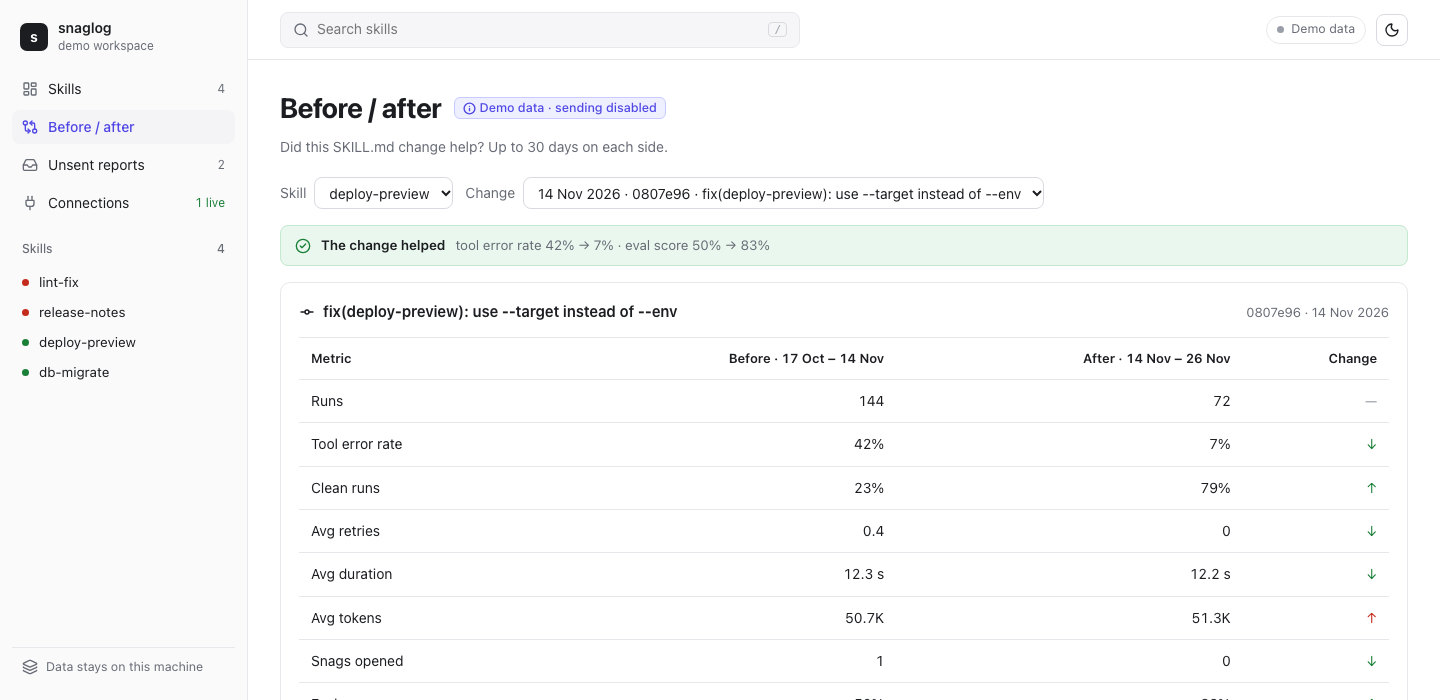
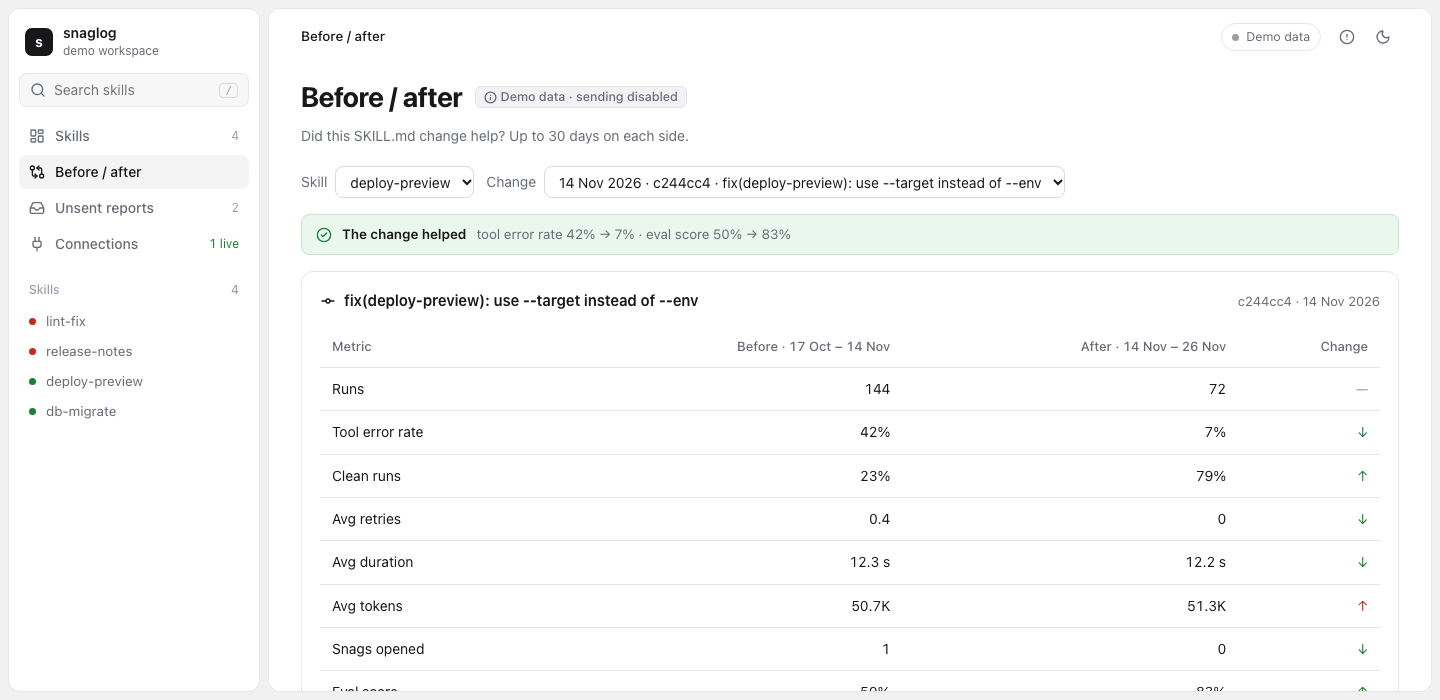
feat(dashboard): separate panels, sidebar search and neutral palette
- Sidebar and main area are separate rounded panels on a tinted canvas.
- Skill search moved into the sidebar; breadcrumbs moved to the top bar.
- "Data stays on this machine" is now a hover note on an icon beside
  the theme button.
- No dotted underlines under headings; no divider lines between sections.
- Purple accent replaced by a neutral palette; links use blue.
- Stat cards show a small icon beside the label instead of an icon box.

diff --git a/cli/dashboard/index.html b/cli/dashboard/index.html
@@ -7,47 +7,47 @@
 <title>snaglog</title>
 <style nonce="__NONCE__">
 :root {
-  --page: #ffffff; --side: #fafafa; --card: #ffffff; --hover: #f4f4f6; --sunken: #f6f6f8;
-  --line: #e8e8ec; --line-strong: #d9d9df;
-  --text: #1c1d21; --muted: #676b75; --faint: #9a9ea8;
-  --accent: #4f46e5; --accent-soft: #eef0ff; --accent-line: #c7cbff;
+  --canvas: #f1f1f2; --page: #ffffff; --side: #ffffff; --card: #ffffff; --hover: #f4f4f5; --sunken: #f7f7f8;
+  --line: #e7e7ea; --line-strong: #d9d9de;
+  --text: #18181b; --muted: #676b75; --faint: #9a9ea8;
+  --accent: #18181b; --accent-fg: #ffffff; --link: #0969da;
   --ok: #1a7f37; --ok-bg: #e9f7ee; --ok-line: #c3e8cf;
   --bad: #c42b1c; --bad-bg: #fdeeed; --bad-line: #f6cdca;
   --warn: #9a6700; --warn-bg: #fff6e3; --warn-line: #f2deb0;
   --neutral-bg: #f2f2f4; --neutral-line: #e2e2e7;
-  --chart-run: #4f46e5; --chart-bad: #e5484d; --chart-ok: #30a46c; --chart-track: #ececf1;
+  --chart-run: #3f3f46; --chart-bad: #e5484d; --chart-ok: #30a46c; --chart-track: #ececef;
   color-scheme: light;
 }
 :root[data-theme="dark"] {
-  --page: #101113; --side: #0c0d0f; --card: #16171a; --hover: #1d1f23; --sunken: #131417;
-  --line: #26282d; --line-strong: #33363c;
+  --canvas: #08090a; --page: #111214; --side: #111214; --card: #16171a; --hover: #1c1d21; --sunken: #18191c;
+  --line: #232428; --line-strong: #303237;
   --text: #ececee; --muted: #a0a3ab; --faint: #6e727b;
-  --accent: #8b8cff; --accent-soft: #1e1f3a; --accent-line: #3b3d75;
+  --accent: #f4f4f5; --accent-fg: #111214; --link: #6cb6ff;
   --ok: #4cc38a; --ok-bg: #12261b; --ok-line: #1f4a33;
   --bad: #ff7b72; --bad-bg: #2d1515; --bad-line: #5a2421;
   --warn: #e3b341; --warn-bg: #2a2110; --warn-line: #574313;
-  --neutral-bg: #1d1f23; --neutral-line: #2c2e34;
-  --chart-run: #8b8cff; --chart-bad: #ff6369; --chart-ok: #4cc38a; --chart-track: #24262b;
+  --neutral-bg: #1c1d21; --neutral-line: #2c2e34;
+  --chart-run: #c9cbd1; --chart-bad: #ff6369; --chart-ok: #4cc38a; --chart-track: #24262b;
   color-scheme: dark;
 }
 @media (prefers-color-scheme: dark) {
   :root:not([data-theme="light"]) {
-    --page: #101113; --side: #0c0d0f; --card: #16171a; --hover: #1d1f23; --sunken: #131417;
-    --line: #26282d; --line-strong: #33363c;
+    --canvas: #08090a; --page: #111214; --side: #111214; --card: #16171a; --hover: #1c1d21; --sunken: #18191c;
+    --line: #232428; --line-strong: #303237;
     --text: #ececee; --muted: #a0a3ab; --faint: #6e727b;
-    --accent: #8b8cff; --accent-soft: #1e1f3a; --accent-line: #3b3d75;
+    --accent: #f4f4f5; --accent-fg: #111214; --link: #6cb6ff;
     --ok: #4cc38a; --ok-bg: #12261b; --ok-line: #1f4a33;
     --bad: #ff7b72; --bad-bg: #2d1515; --bad-line: #5a2421;
     --warn: #e3b341; --warn-bg: #2a2110; --warn-line: #574313;
-    --neutral-bg: #1d1f23; --neutral-line: #2c2e34;
-    --chart-run: #8b8cff; --chart-bad: #ff6369; --chart-ok: #4cc38a; --chart-track: #24262b;
+    --neutral-bg: #1c1d21; --neutral-line: #2c2e34;
+    --chart-run: #c9cbd1; --chart-bad: #ff6369; --chart-ok: #4cc38a; --chart-track: #24262b;
     color-scheme: dark;
   }
 }
 * { box-sizing: border-box; }
 html, body { height: 100%; }
-body { margin: 0; background: var(--page); color: var(--text); font: 14px/1.45 -apple-system, BlinkMacSystemFont, "Segoe UI", Inter, system-ui, sans-serif; -webkit-font-smoothing: antialiased; }
-a { color: var(--accent); text-decoration: none; }
+body { margin: 0; background: var(--canvas); color: var(--text); font: 14px/1.45 -apple-system, BlinkMacSystemFont, "Segoe UI", Inter, system-ui, sans-serif; -webkit-font-smoothing: antialiased; }
+a { color: var(--link); text-decoration: none; }
 a:hover { text-decoration: underline; }
 code, .mono { font-family: ui-monospace, "SF Mono", SFMono-Regular, Menlo, monospace; }
 code { font-size: 12px; background: var(--sunken); border: 1px solid var(--line); padding: 1px 6px; border-radius: 6px; }
@@ -56,55 +56,63 @@ code { font-size: 12px; background: var(--sunken); border: 1px solid var(--line)
 button, select, input, textarea { font: inherit; color: var(--text); }
 .btn { display: inline-flex; align-items: center; gap: 6px; height: 32px; padding: 0 12px; border-radius: 8px; border: 1px solid var(--line-strong); background: var(--card); cursor: pointer; font-weight: 500; }
 .btn:hover { background: var(--hover); }
-.btn.primary { background: var(--accent); border-color: var(--accent); color: #fff; }
-.btn.primary:hover { filter: brightness(1.05); }
+.btn.primary { background: var(--accent); border-color: var(--accent); color: var(--accent-fg); }
+.btn.primary:hover { opacity: .88; background: var(--accent); }
 .btn.danger { color: var(--bad); }
 .btn:disabled { opacity: .45; cursor: not-allowed; }
-.icon-btn { width: 32px; padding: 0; justify-content: center; }
+.icon-btn { width: 32px; padding: 0; justify-content: center; border-color: transparent; background: transparent; color: var(--muted); }
+.icon-btn:hover { color: var(--text); }
 select, input[type="text"], input:not([type]), textarea { background: var(--card); border: 1px solid var(--line-strong); border-radius: 8px; padding: 6px 10px; }
 select { height: 32px; }
 
-/* shell */
-.app { display: grid; grid-template-columns: 248px 1fr; min-height: 100%; }
-.side { position: sticky; top: 0; height: 100vh; display: flex; flex-direction: column; background: var(--side); border-right: 1px solid var(--line); padding: 14px 12px; gap: 4px; overflow-y: auto; }
-.workspace { display: flex; align-items: center; gap: 10px; padding: 6px 8px 14px; }
+/* shell: two separate panels on a tinted canvas */
+.app { display: grid; grid-template-columns: 252px minmax(0, 1fr); gap: 8px; padding: 8px; height: 100vh; }
+.side, .main { background: var(--page); border: 1px solid var(--line); border-radius: 12px; }
+.side { display: flex; flex-direction: column; padding: 12px 10px; gap: 2px; overflow-y: auto; }
+.workspace { display: flex; align-items: center; gap: 10px; padding: 4px 6px 12px; }
 .workspace .logo { width: 28px; height: 28px; border-radius: 7px; background: var(--text); color: var(--page); display: grid; place-items: center; font-weight: 700; font-size: 14px; }
 .workspace .name { font-weight: 600; line-height: 1.2; }
 .workspace .sub { color: var(--muted); font-size: 12px; }
-.nav-item { display: flex; align-items: center; gap: 10px; height: 34px; padding: 0 10px; border-radius: 8px; color: var(--text); text-decoration: none; }
-.nav-item:hover { background: var(--hover); text-decoration: none; }
-.nav-item.active { background: var(--hover); color: var(--accent); font-weight: 500; }
-.nav-item .ic { color: var(--muted); }
-.nav-item.active .ic { color: var(--accent); }
-.nav-item .count { margin-left: auto; font-size: 12px; color: var(--muted); font-variant-numeric: tabular-nums; }
+.search { display: flex; align-items: center; gap: 8px; height: 34px; margin: 0 0 10px; padding: 0 10px; background: var(--sunken); border: 1px solid var(--line); border-radius: 8px; color: var(--muted); }
+.search:focus-within { border-color: var(--line-strong); }
+.search input { flex: 1; min-width: 0; border: 0; background: transparent; padding: 0; outline: none; color: var(--text); }
+.search input::-webkit-search-cancel-button { display: none; }
+.search kbd { font: 11px ui-monospace, monospace; color: var(--faint); border: 1px solid var(--line-strong); border-radius: 4px; padding: 0 5px; }
+.nav-item { display: flex; align-items: center; gap: 10px; height: 34px; padding: 0 10px; border-radius: 8px; color: var(--muted); text-decoration: none; font-weight: 500; }
+.nav-item:hover { background: var(--hover); color: var(--text); text-decoration: none; }
+.nav-item.active { background: var(--hover); color: var(--text); }
+.nav-item .count { margin-left: auto; font-size: 12px; color: var(--faint); font-weight: 400; font-variant-numeric: tabular-nums; }
 .nav-item .count.live { color: var(--ok); }
-.side-label { display: flex; justify-content: space-between; color: var(--muted); font-size: 12px; font-weight: 500; padding: 16px 10px 6px; }
-.side-skill { display: flex; align-items: center; gap: 10px; height: 30px; padding: 0 10px; border-radius: 8px; color: var(--text); text-decoration: none; font-size: 13.5px; }
-.side-skill:hover { background: var(--hover); text-decoration: none; }
-.side-skill.active { background: var(--hover); font-weight: 500; }
+.side-label { display: flex; justify-content: space-between; color: var(--faint); font-size: 12px; font-weight: 500; padding: 18px 10px 6px; }
+.side-skill { display: flex; align-items: center; gap: 10px; height: 30px; padding: 0 10px; border-radius: 8px; color: var(--muted); text-decoration: none; font-size: 13.5px; }
+.side-skill:hover { background: var(--hover); color: var(--text); text-decoration: none; }
+.side-skill.active { background: var(--hover); color: var(--text); font-weight: 500; }
 .side-skill span:nth-child(2) { overflow: hidden; text-overflow: ellipsis; white-space: nowrap; }
-.side-foot { margin-top: auto; display: flex; align-items: center; gap: 8px; padding: 10px; border-top: 1px solid var(--line); color: var(--muted); font-size: 12.5px; }
 .dot { width: 7px; height: 7px; border-radius: 50%; background: var(--faint); flex: none; }
 .dot.ok { background: var(--ok); }
 .dot.bad { background: var(--bad); }
 .dot.warn { background: var(--warn); }
-.main { min-width: 0; display: flex; flex-direction: column; }
-.topbar { position: sticky; top: 0; z-index: 2; display: flex; align-items: center; gap: 12px; height: 60px; padding: 0 32px; background: color-mix(in srgb, var(--page) 92%, transparent); backdrop-filter: blur(6px); border-bottom: 1px solid var(--line); }
-.search { display: flex; align-items: center; gap: 8px; height: 36px; width: min(520px, 100%); padding: 0 12px; background: var(--sunken); border: 1px solid var(--line); border-radius: 8px; color: var(--muted); }
-.search input { flex: 1; border: 0; background: transparent; padding: 0; outline: none; color: var(--text); }
-.search kbd { font: 11px ui-monospace, monospace; color: var(--faint); border: 1px solid var(--line-strong); border-radius: 4px; padding: 0 5px; }
-.topbar .right { margin-left: auto; display: flex; align-items: center; gap: 10px; }
-.status-pill { display: inline-flex; align-items: center; gap: 7px; height: 28px; padding: 0 10px; border-radius: 999px; border: 1px solid var(--line); color: var(--muted); font-size: 12.5px; cursor: default; }
-.content { width: 100%; max-width: 1280px; padding: 28px 32px 56px; }
+.main { min-width: 0; display: flex; flex-direction: column; overflow-y: auto; }
+.topbar { position: sticky; top: 0; z-index: 2; display: flex; align-items: center; gap: 12px; min-height: 56px; padding: 0 32px; background: var(--page); }
+.topbar .crumbs { display: flex; align-items: center; gap: 6px; color: var(--muted); font-size: 13.5px; min-width: 0; }
+.topbar .crumbs a { color: var(--muted); }
+.topbar .crumbs a:hover { color: var(--text); text-decoration: none; }
+.topbar .crumbs .here { color: var(--text); font-weight: 500; }
+.topbar .crumbs .ic { color: var(--faint); }
+.topbar .right { margin-left: auto; display: flex; align-items: center; gap: 4px; }
+.status-pill { display: inline-flex; align-items: center; gap: 7px; height: 28px; margin-right: 6px; padding: 0 10px; border-radius: 999px; border: 1px solid var(--line); color: var(--muted); font-size: 12.5px; cursor: default; white-space: nowrap; }
+.tip { position: relative; }
+.tip-box { display: none; position: absolute; right: 0; top: calc(100% + 6px); width: 280px; padding: 12px 14px; background: var(--card); border: 1px solid var(--line); border-radius: 10px; box-shadow: 0 8px 24px rgba(0, 0, 0, .10); font-size: 13px; color: var(--muted); z-index: 5; }
+.tip-box strong { display: block; color: var(--text); font-weight: 600; margin-bottom: 4px; }
+.tip:hover .tip-box, .tip:focus-within .tip-box { display: block; }
+.content { width: 100%; max-width: 1280px; padding: 12px 32px 56px; }
 @media (max-width: 900px) {
-  .app { grid-template-columns: 1fr; }
-  .side { position: static; height: auto; border-right: 0; border-bottom: 1px solid var(--line); }
+  .app { grid-template-columns: 1fr; height: auto; }
+  .main { overflow: visible; }
   .topbar, .content { padding-left: 16px; padding-right: 16px; }
 }
 
 /* page header */
-.crumbs { display: flex; align-items: center; gap: 6px; color: var(--muted); font-size: 13px; margin-bottom: 6px; }
-.crumbs a { color: var(--muted); }
 .page-title { display: flex; align-items: center; gap: 12px; margin: 0 0 20px; }
 .page-title h1 { margin: 0; font-size: 28px; font-weight: 700; letter-spacing: -0.02em; }
 .lead { color: var(--muted); margin: -12px 0 20px; }
@@ -121,32 +129,30 @@ h2 { font-size: 16px; font-weight: 600; margin: 28px 0 12px; }
 .notice.warn { background: var(--warn-bg); border-color: var(--warn-line); }
 .notice.warn .ic { color: var(--warn); }
 
-/* stat cards (Plane-like) */
+/* stat cards */
 .stats { display: grid; grid-template-columns: repeat(auto-fit, minmax(210px, 1fr)); gap: 12px; }
-.stat { display: flex; gap: 14px; align-items: center; padding: 16px 18px; background: var(--card); border: 1px solid var(--line); border-radius: 10px; }
-.stat .icon { width: 36px; height: 36px; border-radius: 9px; background: var(--sunken); border: 1px solid var(--line); display: grid; place-items: center; color: var(--muted); flex: none; }
-.stat .icon .ic { width: 18px; height: 18px; }
-.stat .label { color: var(--muted); font-size: 13px; }
-.stat .label[title] { cursor: help; text-decoration: underline dotted var(--line-strong); text-underline-offset: 3px; }
-.stat .value { font-size: 22px; font-weight: 600; font-variant-numeric: tabular-nums; letter-spacing: -0.01em; line-height: 1.25; }
-.stat .value .unit { font-size: 14px; font-weight: 500; color: var(--muted); margin-left: 2px; }
+.stat { padding: 16px 18px; background: var(--card); border: 1px solid var(--line); border-radius: 12px; }
+.stat .head { display: flex; align-items: center; justify-content: space-between; gap: 8px; color: var(--muted); font-size: 13px; font-weight: 500; }
+.stat .head .ic { color: var(--faint); }
+.stat .value { margin-top: 8px; font-size: 26px; font-weight: 600; font-variant-numeric: tabular-nums; letter-spacing: -0.02em; line-height: 1.2; }
+.stat .value .unit { font-size: 15px; font-weight: 500; color: var(--muted); margin-left: 2px; letter-spacing: 0; }
 .stat .value.bad { color: var(--bad); }
-.stat .note { color: var(--faint); font-size: 12px; }
+.stat .note { margin-top: 4px; color: var(--faint); font-size: 12px; }
 
 /* status tabs (Stripe-like) */
 .tabs-cards { display: grid; grid-template-columns: repeat(auto-fit, minmax(150px, 1fr)); gap: 10px; margin: 20px 0 16px; }
-.tab-card { text-align: left; padding: 10px 14px; border-radius: 8px; border: 1px solid var(--line); background: var(--card); cursor: pointer; }
+.tab-card { text-align: left; padding: 10px 14px; border-radius: 10px; border: 1px solid var(--line); background: var(--card); cursor: pointer; }
 .tab-card:hover { border-color: var(--line-strong); }
 .tab-card .t { color: var(--muted); font-size: 13px; }
 .tab-card .n { font-size: 18px; font-weight: 600; font-variant-numeric: tabular-nums; }
-.tab-card.active { border: 1.5px solid var(--accent); }
-.tab-card.active .t, .tab-card.active .n { color: var(--accent); }
+.tab-card.active { border-color: var(--text); }
+.tab-card.active .t { color: var(--text); }
 
 /* underline tabs (Plane-like) */
-.tabs { display: flex; gap: 4px; border-bottom: 1px solid var(--line); margin: 4px 0 20px; }
+.tabs { display: flex; gap: 4px; margin: 0 0 20px; }
 .tabs button { background: none; border: 0; padding: 10px 12px; margin-bottom: -1px; border-bottom: 2px solid transparent; color: var(--muted); cursor: pointer; font-weight: 500; }
 .tabs button:hover { color: var(--text); }
-.tabs button.active { color: var(--accent); border-bottom-color: var(--accent); }
+.tabs button.active { color: var(--text); border-bottom-color: var(--text); }
 
 /* badges */
 .badge { display: inline-flex; align-items: center; gap: 4px; height: 22px; padding: 0 8px; border-radius: 6px; font-size: 12.5px; font-weight: 500; border: 1px solid var(--neutral-line); background: var(--neutral-bg); color: var(--muted); white-space: nowrap; }
@@ -154,14 +160,13 @@ h2 { font-size: 16px; font-weight: 600; margin: 28px 0 12px; }
 .badge.ok { background: var(--ok-bg); border-color: var(--ok-line); color: var(--ok); }
 .badge.bad { background: var(--bad-bg); border-color: var(--bad-line); color: var(--bad); }
 .badge.warn { background: var(--warn-bg); border-color: var(--warn-line); color: var(--warn); }
-.badge.accent { background: var(--accent-soft); border-color: var(--accent-line); color: var(--accent); }
 
 /* tables (Stripe-like) */
-.table-wrap { border-top: 1px solid var(--line); overflow-x: auto; }
+.table-wrap { overflow-x: auto; }
 table { width: 100%; border-collapse: collapse; }
 th, td { text-align: left; padding: 11px 12px; border-bottom: 1px solid var(--line); vertical-align: middle; white-space: nowrap; }
-th { font-weight: 600; font-size: 13px; color: var(--text); }
-th[title] { cursor: help; text-decoration: underline dotted var(--line-strong); text-underline-offset: 3px; }
+th { font-weight: 500; font-size: 13px; color: var(--muted); }
+th[title] { cursor: help; }
 th.sortable { cursor: pointer; user-select: none; }
 th.sorted::after { content: " ↓"; color: var(--muted); }
 th.sorted.asc::after { content: " ↑"; }
@@ -184,7 +189,7 @@ tr.row-link:hover td { background: var(--hover); }
 /* cards and charts */
 .grid2 { display: grid; grid-template-columns: minmax(0, 1.5fr) minmax(0, 1fr); gap: 16px; }
 @media (max-width: 1100px) { .grid2 { grid-template-columns: 1fr; } }
-.card { background: var(--card); border: 1px solid var(--line); border-radius: 10px; padding: 18px; }
+.card { background: var(--card); border: 1px solid var(--line); border-radius: 12px; padding: 18px; }
 .card h3 { margin: 0 0 14px; font-size: 15px; font-weight: 600; display: flex; align-items: center; gap: 8px; }
 .card h3 .meta { margin-left: auto; font-weight: 400; font-size: 13px; color: var(--muted); }
 .chart svg { width: 100%; height: auto; display: block; }
@@ -220,13 +225,12 @@ tr.row-link:hover td { background: var(--hover); }
 .activity .av { width: 28px; height: 28px; border-radius: 50%; display: grid; place-items: center; background: var(--sunken); border: 1px solid var(--line); color: var(--muted); flex: none; }
 .activity .av.bad { color: var(--bad); background: var(--bad-bg); border-color: var(--bad-line); }
 .activity .av.ok { color: var(--ok); background: var(--ok-bg); border-color: var(--ok-line); }
-.activity .av.accent { color: var(--accent); background: var(--accent-soft); border-color: var(--accent-line); }
 .activity .av .ic { width: 14px; height: 14px; }
 .activity .what strong { font-weight: 600; }
 .activity .when { margin-left: auto; color: var(--faint); font-size: 12.5px; white-space: nowrap; }
 
 /* forms, lists */
-.form-card { background: var(--card); border: 1px solid var(--line); border-radius: 10px; padding: 18px; margin-bottom: 16px; }
+.form-card { background: var(--card); border: 1px solid var(--line); border-radius: 12px; padding: 18px; margin-bottom: 16px; }
 .form-card .head { display: flex; align-items: center; gap: 8px; margin-bottom: 14px; }
 .form-card .head strong { font-size: 15px; }
 .form-card label { display: block; color: var(--muted); font-size: 12.5px; font-weight: 500; margin-bottom: 4px; }
@@ -253,19 +257,23 @@ dl.defs dd { margin: 0; color: var(--muted); }
 <div class="app">
   <aside class="side">
     <div class="workspace"><span class="logo">s</span><div><div class="name">snaglog</div><div class="sub" id="ws-sub">local dashboard</div></div></div>
+    <label class="search"><span data-icon="search"></span><input id="search" type="search" placeholder="Search skills" aria-label="Search skills"><kbd>/</kbd></label>
     <a class="nav-item" href="#/overview" data-page="overview"><span data-icon="layout-dashboard"></span>Skills<span class="count" data-count="skills"></span></a>
     <a class="nav-item" href="#/compare" data-page="compare"><span data-icon="git-compare-arrows"></span>Before / after</a>
     <a class="nav-item" href="#/unsent" data-page="unsent"><span data-icon="inbox"></span>Unsent reports<span class="count" data-count="unsent"></span></a>
     <a class="nav-item" href="#/connections" data-page="connections"><span data-icon="plug"></span>Connections<span class="count" data-count="live"></span></a>
     <div class="side-label"><span>Skills</span><span id="skill-total"></span></div>
     <div id="skill-list"></div>
-    <div class="side-foot"><span data-icon="layers"></span><span>Data stays on this machine</span></div>
   </aside>
-  <div class="main">
+  <div class="main" id="main">
     <header class="topbar">
-      <label class="search"><span data-icon="search"></span><input id="search" type="search" placeholder="Search skills" aria-label="Search skills"><kbd>/</kbd></label>
+      <nav class="crumbs" id="crumbs" aria-label="Breadcrumb"></nav>
       <div class="right">
         <span class="status-pill" id="recv"><span class="dot" id="recv-dot"></span><span id="recv-text">Receiver</span></span>
+        <span class="tip">
+          <button class="btn icon-btn" type="button" aria-label="Where your data is kept" aria-describedby="privacy-tip"><span data-icon="circle-alert"></span></button>
+          <span class="tip-box" role="tooltip" id="privacy-tip"><strong>Data stays on this machine</strong>Telemetry, eval results and unsent reports are stored locally. Nothing is sent anywhere until you send a report to GitHub.</span>
+        </span>
         <button class="btn icon-btn" id="theme" type="button" title="Switch between light and dark" aria-label="Switch between light and dark"></button>
       </div>
     </header>
@@ -276,7 +284,7 @@ dl.defs dd { margin: 0; color: var(--muted); }
 'use strict';
 // Icons: Lucide (https://lucide.dev), ISC license, version 1.72.0.
 // See THIRD_PARTY_NOTICES.md. Shape data only; built with createElementNS.
-const ICONS = {"layout-dashboard":[["rect",{"width":"7","height":"9","x":"3","y":"3","rx":"1"}],["rect",{"width":"7","height":"5","x":"14","y":"3","rx":"1"}],["rect",{"width":"7","height":"9","x":"14","y":"12","rx":"1"}],["rect",{"width":"7","height":"5","x":"3","y":"16","rx":"1"}]],"git-compare-arrows":[["circle",{"cx":"5","cy":"6","r":"3"}],["path",{"d":"M12 6h5a2 2 0 0 1 2 2v7"}],["path",{"d":"m15 9-3-3 3-3"}],["circle",{"cx":"19","cy":"18","r":"3"}],["path",{"d":"M12 18H7a2 2 0 0 1-2-2V9"}],["path",{"d":"m9 15 3 3-3 3"}]],"inbox":[["polyline",{"points":"22 12 16 12 14 15 10 15 8 12 2 12"}],["path",{"d":"M5.45 5.11 2 12v6a2 2 0 0 0 2 2h16a2 2 0 0 0 2-2v-6l-3.45-6.89A2 2 0 0 0 16.76 4H7.24a2 2 0 0 0-1.79 1.11z"}]],"plug":[["path",{"d":"M12 22v-5"}],["path",{"d":"M15 8V2"}],["path",{"d":"M17 8a1 1 0 0 1 1 1v4a4 4 0 0 1-4 4h-4a4 4 0 0 1-4-4V9a1 1 0 0 1 1-1z"}],["path",{"d":"M9 8V2"}]],"search":[["path",{"d":"m21 21-4.34-4.34"}],["circle",{"cx":"11","cy":"11","r":"8"}]],"sun":[["circle",{"cx":"12","cy":"12","r":"4"}],["path",{"d":"M12 2v2"}],["path",{"d":"M12 20v2"}],["path",{"d":"m4.93 4.93 1.41 1.41"}],["path",{"d":"m17.66 17.66 1.41 1.41"}],["path",{"d":"M2 12h2"}],["path",{"d":"M20 12h2"}],["path",{"d":"m6.34 17.66-1.41 1.41"}],["path",{"d":"m19.07 4.93-1.41 1.41"}]],"moon":[["path",{"d":"M20.985 12.486a9 9 0 1 1-9.473-9.472c.405-.022.617.46.402.803a6 6 0 0 0 8.268 8.268c.344-.215.825-.004.803.401"}]],"check":[["path",{"d":"M20 6 9 17l-5-5"}]],"x":[["path",{"d":"M18 6 6 18"}],["path",{"d":"m6 6 12 12"}]],"clock":[["circle",{"cx":"12","cy":"12","r":"10"}],["path",{"d":"M12 6v6l4 2"}]],"triangle-alert":[["path",{"d":"m21.73 18-8-14a2 2 0 0 0-3.48 0l-8 14A2 2 0 0 0 4 21h16a2 2 0 0 0 1.73-3"}],["path",{"d":"M12 9v4"}],["path",{"d":"M12 17h.01"}]],"activity":[["path",{"d":"M22 12h-2.48a2 2 0 0 0-1.93 1.46l-2.35 8.36a.25.25 0 0 1-.48 0L9.24 2.18a.25.25 0 0 0-.48 0l-2.35 8.36A2 2 0 0 1 4.49 12H2"}]],"timer":[["line",{"x1":"10","x2":"14","y1":"2","y2":"2"}],["line",{"x1":"12","x2":"15","y1":"14","y2":"11"}],["circle",{"cx":"12","cy":"14","r":"8"}]],"coins":[["path",{"d":"M13.744 17.736a6 6 0 1 1-7.48-7.48"}],["path",{"d":"M15 6h1v4"}],["path",{"d":"m6.134 14.768.866-.5 2 3.464"}],["circle",{"cx":"16","cy":"8","r":"6"}]],"bug":[["path",{"d":"M12 20v-9"}],["path",{"d":"M14 7a4 4 0 0 1 4 4v3a6 6 0 0 1-12 0v-3a4 4 0 0 1 4-4z"}],["path",{"d":"M14.12 3.88 16 2"}],["path",{"d":"M21 21a4 4 0 0 0-3.81-4"}],["path",{"d":"M21 5a4 4 0 0 1-3.55 3.97"}],["path",{"d":"M22 13h-4"}],["path",{"d":"M3 21a4 4 0 0 1 3.81-4"}],["path",{"d":"M3 5a4 4 0 0 0 3.55 3.97"}],["path",{"d":"M6 13H2"}],["path",{"d":"m8 2 1.88 1.88"}],["path",{"d":"M9 7.13V6a3 3 0 1 1 6 0v1.13"}]],"flask-conical":[["path",{"d":"M14 2v6a2 2 0 0 0 .245.96l5.51 10.08A2 2 0 0 1 18 22H6a2 2 0 0 1-1.755-2.96l5.51-10.08A2 2 0 0 0 10 8V2"}],["path",{"d":"M6.453 15h11.094"}],["path",{"d":"M8.5 2h7"}]],"git-commit-horizontal":[["circle",{"cx":"12","cy":"12","r":"3"}],["line",{"x1":"3","x2":"9","y1":"12","y2":"12"}],["line",{"x1":"15","x2":"21","y1":"12","y2":"12"}]],"bot":[["path",{"d":"M12 8V4H8"}],["rect",{"width":"16","height":"12","x":"4","y":"8","rx":"2"}],["path",{"d":"M2 14h2"}],["path",{"d":"M20 14h2"}],["path",{"d":"M15 13v2"}],["path",{"d":"M9 13v2"}]],"chevron-right":[["path",{"d":"m9 18 6-6-6-6"}]],"external-link":[["path",{"d":"M15 3h6v6"}],["path",{"d":"M10 14 21 3"}],["path",{"d":"M18 13v6a2 2 0 0 1-2 2H5a2 2 0 0 1-2-2V8a2 2 0 0 1 2-2h6"}]],"send":[["path",{"d":"M14.536 21.686a.5.5 0 0 0 .937-.024l6.5-19a.496.496 0 0 0-.635-.635l-19 6.5a.5.5 0 0 0-.024.937l7.93 3.18a2 2 0 0 1 1.112 1.11z"}],["path",{"d":"m21.854 2.147-10.94 10.939"}]],"trash-2":[["path",{"d":"M10 11v6"}],["path",{"d":"M14 11v6"}],["path",{"d":"M19 6v14a2 2 0 0 1-2 2H7a2 2 0 0 1-2-2V6"}],["path",{"d":"M3 6h18"}],["path",{"d":"M8 6V4a2 2 0 0 1 2-2h4a2 2 0 0 1 2 2v2"}]],"info":[["circle",{"cx":"12","cy":"12","r":"10"}],["path",{"d":"M12 16v-4"}],["path",{"d":"M12 8h.01"}]],"zap":[["path",{"d":"M15.914 4a1.5 1.5 0 00-2.474-1.561l-9 9A1.5 1.5 0 005.5 14h4.002a.5.5 0 01.471.666L8.086 20a1.5 1.5 0 002.475 1.56l9-9A1.5 1.5 0 0018.5 10h-3.997a.5.5 0 01-.472-.667z"}]],"circle-check":[["circle",{"cx":"12","cy":"12","r":"10"}],["path",{"d":"m16 9-5.5 5.5L8 12"}]],"circle-x":[["circle",{"cx":"12","cy":"12","r":"10"}],["path",{"d":"m15 9-6 6"}],["path",{"d":"m9 9 6 6"}]],"circle-dashed":[["path",{"d":"M10.1 2.182a10 10 0 0 1 3.8 0"}],["path",{"d":"M13.9 21.818a10 10 0 0 1-3.8 0"}],["path",{"d":"M17.609 3.721a10 10 0 0 1 2.69 2.7"}],["path",{"d":"M2.182 13.9a10 10 0 0 1 0-3.8"}],["path",{"d":"M20.279 17.609a10 10 0 0 1-2.7 2.69"}],["path",{"d":"M21.818 10.1a10 10 0 0 1 0 3.8"}],["path",{"d":"M3.721 6.391a10 10 0 0 1 2.7-2.69"}],["path",{"d":"M6.391 20.279a10 10 0 0 1-2.69-2.7"}]],"rotate-ccw":[["path",{"d":"M3 12a9 9 0 1 0 9-9 9.75 9.75 0 0 0-6.74 2.74L3 8"}],["path",{"d":"M3 3v5h5"}]],"file-text":[["path",{"d":"M6 22a2 2 0 0 1-2-2V4a2 2 0 0 1 2-2h8a2.4 2.4 0 0 1 1.704.706l3.588 3.588A2.4 2.4 0 0 1 20 8v12a2 2 0 0 1-2 2z"}],["path",{"d":"M14 2v5a1 1 0 0 0 1 1h5"}],["path",{"d":"M10 9H8"}],["path",{"d":"M16 13H8"}],["path",{"d":"M16 17H8"}]],"save":[["path",{"d":"M15.2 3a2 2 0 0 1 1.4.6l3.8 3.8a2 2 0 0 1 .6 1.4V19a2 2 0 0 1-2 2H5a2 2 0 0 1-2-2V5a2 2 0 0 1 2-2z"}],["path",{"d":"M17 21v-7a1 1 0 0 0-1-1H8a1 1 0 0 0-1 1v7"}],["path",{"d":"M7 3v4a1 1 0 0 0 1 1h7"}]],"radio":[["path",{"d":"M16.247 7.761a6 6 0 0 1 0 8.478"}],["path",{"d":"M19.075 4.933a10 10 0 0 1 0 14.134"}],["path",{"d":"M4.925 19.067a10 10 0 0 1 0-14.134"}],["path",{"d":"M7.753 16.239a6 6 0 0 1 0-8.478"}],["circle",{"cx":"12","cy":"12","r":"2"}]],"layers":[["path",{"d":"M12.83 2.18a2 2 0 0 0-1.66 0L2.6 6.08a1 1 0 0 0 0 1.83l8.58 3.91a2 2 0 0 0 1.66 0l8.58-3.9a1 1 0 0 0 0-1.83z"}],["path",{"d":"M2 12a1 1 0 0 0 .58.91l8.6 3.91a2 2 0 0 0 1.65 0l8.58-3.9A1 1 0 0 0 22 12"}],["path",{"d":"M2 17a1 1 0 0 0 .58.91l8.6 3.91a2 2 0 0 0 1.65 0l8.58-3.9A1 1 0 0 0 22 17"}]]};
+const ICONS = {"layout-dashboard":[["rect",{"width":"7","height":"9","x":"3","y":"3","rx":"1"}],["rect",{"width":"7","height":"5","x":"14","y":"3","rx":"1"}],["rect",{"width":"7","height":"9","x":"14","y":"12","rx":"1"}],["rect",{"width":"7","height":"5","x":"3","y":"16","rx":"1"}]],"git-compare-arrows":[["circle",{"cx":"5","cy":"6","r":"3"}],["path",{"d":"M12 6h5a2 2 0 0 1 2 2v7"}],["path",{"d":"m15 9-3-3 3-3"}],["circle",{"cx":"19","cy":"18","r":"3"}],["path",{"d":"M12 18H7a2 2 0 0 1-2-2V9"}],["path",{"d":"m9 15 3 3-3 3"}]],"inbox":[["polyline",{"points":"22 12 16 12 14 15 10 15 8 12 2 12"}],["path",{"d":"M5.45 5.11 2 12v6a2 2 0 0 0 2 2h16a2 2 0 0 0 2-2v-6l-3.45-6.89A2 2 0 0 0 16.76 4H7.24a2 2 0 0 0-1.79 1.11z"}]],"plug":[["path",{"d":"M12 22v-5"}],["path",{"d":"M15 8V2"}],["path",{"d":"M17 8a1 1 0 0 1 1 1v4a4 4 0 0 1-4 4h-4a4 4 0 0 1-4-4V9a1 1 0 0 1 1-1z"}],["path",{"d":"M9 8V2"}]],"search":[["path",{"d":"m21 21-4.34-4.34"}],["circle",{"cx":"11","cy":"11","r":"8"}]],"sun":[["circle",{"cx":"12","cy":"12","r":"4"}],["path",{"d":"M12 2v2"}],["path",{"d":"M12 20v2"}],["path",{"d":"m4.93 4.93 1.41 1.41"}],["path",{"d":"m17.66 17.66 1.41 1.41"}],["path",{"d":"M2 12h2"}],["path",{"d":"M20 12h2"}],["path",{"d":"m6.34 17.66-1.41 1.41"}],["path",{"d":"m19.07 4.93-1.41 1.41"}]],"moon":[["path",{"d":"M20.985 12.486a9 9 0 1 1-9.473-9.472c.405-.022.617.46.402.803a6 6 0 0 0 8.268 8.268c.344-.215.825-.004.803.401"}]],"check":[["path",{"d":"M20 6 9 17l-5-5"}]],"x":[["path",{"d":"M18 6 6 18"}],["path",{"d":"m6 6 12 12"}]],"clock":[["circle",{"cx":"12","cy":"12","r":"10"}],["path",{"d":"M12 6v6l4 2"}]],"triangle-alert":[["path",{"d":"m21.73 18-8-14a2 2 0 0 0-3.48 0l-8 14A2 2 0 0 0 4 21h16a2 2 0 0 0 1.73-3"}],["path",{"d":"M12 9v4"}],["path",{"d":"M12 17h.01"}]],"activity":[["path",{"d":"M22 12h-2.48a2 2 0 0 0-1.93 1.46l-2.35 8.36a.25.25 0 0 1-.48 0L9.24 2.18a.25.25 0 0 0-.48 0l-2.35 8.36A2 2 0 0 1 4.49 12H2"}]],"timer":[["line",{"x1":"10","x2":"14","y1":"2","y2":"2"}],["line",{"x1":"12","x2":"15","y1":"14","y2":"11"}],["circle",{"cx":"12","cy":"14","r":"8"}]],"coins":[["path",{"d":"M13.744 17.736a6 6 0 1 1-7.48-7.48"}],["path",{"d":"M15 6h1v4"}],["path",{"d":"m6.134 14.768.866-.5 2 3.464"}],["circle",{"cx":"16","cy":"8","r":"6"}]],"bug":[["path",{"d":"M12 20v-9"}],["path",{"d":"M14 7a4 4 0 0 1 4 4v3a6 6 0 0 1-12 0v-3a4 4 0 0 1 4-4z"}],["path",{"d":"M14.12 3.88 16 2"}],["path",{"d":"M21 21a4 4 0 0 0-3.81-4"}],["path",{"d":"M21 5a4 4 0 0 1-3.55 3.97"}],["path",{"d":"M22 13h-4"}],["path",{"d":"M3 21a4 4 0 0 1 3.81-4"}],["path",{"d":"M3 5a4 4 0 0 0 3.55 3.97"}],["path",{"d":"M6 13H2"}],["path",{"d":"m8 2 1.88 1.88"}],["path",{"d":"M9 7.13V6a3 3 0 1 1 6 0v1.13"}]],"flask-conical":[["path",{"d":"M14 2v6a2 2 0 0 0 .245.96l5.51 10.08A2 2 0 0 1 18 22H6a2 2 0 0 1-1.755-2.96l5.51-10.08A2 2 0 0 0 10 8V2"}],["path",{"d":"M6.453 15h11.094"}],["path",{"d":"M8.5 2h7"}]],"git-commit-horizontal":[["circle",{"cx":"12","cy":"12","r":"3"}],["line",{"x1":"3","x2":"9","y1":"12","y2":"12"}],["line",{"x1":"15","x2":"21","y1":"12","y2":"12"}]],"bot":[["path",{"d":"M12 8V4H8"}],["rect",{"width":"16","height":"12","x":"4","y":"8","rx":"2"}],["path",{"d":"M2 14h2"}],["path",{"d":"M20 14h2"}],["path",{"d":"M15 13v2"}],["path",{"d":"M9 13v2"}]],"chevron-right":[["path",{"d":"m9 18 6-6-6-6"}]],"external-link":[["path",{"d":"M15 3h6v6"}],["path",{"d":"M10 14 21 3"}],["path",{"d":"M18 13v6a2 2 0 0 1-2 2H5a2 2 0 0 1-2-2V8a2 2 0 0 1 2-2h6"}]],"send":[["path",{"d":"M14.536 21.686a.5.5 0 0 0 .937-.024l6.5-19a.496.496 0 0 0-.635-.635l-19 6.5a.5.5 0 0 0-.024.937l7.93 3.18a2 2 0 0 1 1.112 1.11z"}],["path",{"d":"m21.854 2.147-10.94 10.939"}]],"trash-2":[["path",{"d":"M10 11v6"}],["path",{"d":"M14 11v6"}],["path",{"d":"M19 6v14a2 2 0 0 1-2 2H7a2 2 0 0 1-2-2V6"}],["path",{"d":"M3 6h18"}],["path",{"d":"M8 6V4a2 2 0 0 1 2-2h4a2 2 0 0 1 2 2v2"}]],"info":[["circle",{"cx":"12","cy":"12","r":"10"}],["path",{"d":"M12 16v-4"}],["path",{"d":"M12 8h.01"}]],"zap":[["path",{"d":"M15.914 4a1.5 1.5 0 00-2.474-1.561l-9 9A1.5 1.5 0 005.5 14h4.002a.5.5 0 01.471.666L8.086 20a1.5 1.5 0 002.475 1.56l9-9A1.5 1.5 0 0018.5 10h-3.997a.5.5 0 01-.472-.667z"}]],"circle-check":[["circle",{"cx":"12","cy":"12","r":"10"}],["path",{"d":"m16 9-5.5 5.5L8 12"}]],"circle-x":[["circle",{"cx":"12","cy":"12","r":"10"}],["path",{"d":"m15 9-6 6"}],["path",{"d":"m9 9 6 6"}]],"circle-dashed":[["path",{"d":"M10.1 2.182a10 10 0 0 1 3.8 0"}],["path",{"d":"M13.9 21.818a10 10 0 0 1-3.8 0"}],["path",{"d":"M17.609 3.721a10 10 0 0 1 2.69 2.7"}],["path",{"d":"M2.182 13.9a10 10 0 0 1 0-3.8"}],["path",{"d":"M20.279 17.609a10 10 0 0 1-2.7 2.69"}],["path",{"d":"M21.818 10.1a10 10 0 0 1 0 3.8"}],["path",{"d":"M3.721 6.391a10 10 0 0 1 2.7-2.69"}],["path",{"d":"M6.391 20.279a10 10 0 0 1-2.69-2.7"}]],"rotate-ccw":[["path",{"d":"M3 12a9 9 0 1 0 9-9 9.75 9.75 0 0 0-6.74 2.74L3 8"}],["path",{"d":"M3 3v5h5"}]],"file-text":[["path",{"d":"M6 22a2 2 0 0 1-2-2V4a2 2 0 0 1 2-2h8a2.4 2.4 0 0 1 1.704.706l3.588 3.588A2.4 2.4 0 0 1 20 8v12a2 2 0 0 1-2 2z"}],["path",{"d":"M14 2v5a1 1 0 0 0 1 1h5"}],["path",{"d":"M10 9H8"}],["path",{"d":"M16 13H8"}],["path",{"d":"M16 17H8"}]],"save":[["path",{"d":"M15.2 3a2 2 0 0 1 1.4.6l3.8 3.8a2 2 0 0 1 .6 1.4V19a2 2 0 0 1-2 2H5a2 2 0 0 1-2-2V5a2 2 0 0 1 2-2z"}],["path",{"d":"M17 21v-7a1 1 0 0 0-1-1H8a1 1 0 0 0-1 1v7"}],["path",{"d":"M7 3v4a1 1 0 0 0 1 1h7"}]],"radio":[["path",{"d":"M16.247 7.761a6 6 0 0 1 0 8.478"}],["path",{"d":"M19.075 4.933a10 10 0 0 1 0 14.134"}],["path",{"d":"M4.925 19.067a10 10 0 0 1 0-14.134"}],["path",{"d":"M7.753 16.239a6 6 0 0 1 0-8.478"}],["circle",{"cx":"12","cy":"12","r":"2"}]],"circle-alert":[["circle",{"cx":"12","cy":"12","r":"10"}],["line",{"x1":"12","x2":"12","y1":"8","y2":"12"}],["line",{"x1":"12","x2":"12.01","y1":"16","y2":"16"}]],"layers":[["path",{"d":"M12.83 2.18a2 2 0 0 0-1.66 0L2.6 6.08a1 1 0 0 0 0 1.83l8.58 3.91a2 2 0 0 0 1.66 0l8.58-3.9a1 1 0 0 0 0-1.83z"}],["path",{"d":"M2 12a1 1 0 0 0 .58.91l8.6 3.91a2 2 0 0 0 1.65 0l8.58-3.9A1 1 0 0 0 22 12"}],["path",{"d":"M2 17a1 1 0 0 0 .58.91l8.6 3.91a2 2 0 0 0 1.65 0l8.58-3.9A1 1 0 0 0 22 17"}]]};
 const TOKEN = document.querySelector('meta[name="snaglog-token"]').content;
 const app = document.getElementById('app');
 const SVGNS = 'http://www.w3.org/2000/svg';
@@ -356,19 +364,24 @@ function statusBadge(r) {
   return h('span', { class: 'badge' }, 'Not used', icon('clock'));
 }
 const dotClass = (r) => ({ attention: 'bad', healthy: 'ok', idle: '' })[statusOf(r)];
+// crumbs: [label, href] pairs shown in the top bar; the last one is the current page.
 function title(text, { crumbs, badge, lead } = {}) {
+  const trail = crumbs || [[text]];
+  document.getElementById('crumbs').replaceChildren(...trail.flatMap(([label, href], i) => [
+    i ? icon('chevron-right', 'sm') : null,
+    href ? h('a', { href, text: label }) : h('span', { class: 'here', text: label }),
+  ].filter(Boolean)));
   return [
-    crumbs ? h('div', { class: 'crumbs' }, crumbs) : null,
-    h('div', { class: 'page-title' }, h('h1', { text }), badge || null, META.demo ? h('span', { class: 'badge accent' }, icon('info'), 'Demo data · sending disabled') : null),
+    h('div', { class: 'page-title' }, h('h1', { text }), badge || null, META.demo ? h('span', { class: 'badge' }, icon('info'), 'Demo data · sending disabled') : null),
     lead ? h('p', { class: 'lead', text: lead }) : null,
   ];
 }
 function render(...children) { app.replaceChildren(...children.flat().filter(Boolean)); }
 function stat(iconName, defKey, value, unit, { cls, note, label } = {}) {
-  return h('div', { class: 'stat' }, h('span', { class: 'icon' }, icon(iconName)),
-    h('div', {}, h('div', { class: 'label', title: defKey ? def(defKey) : undefined, text: label || DEFS[defKey][0] }),
-      h('div', { class: `value ${cls || ''}` }, value, unit ? h('span', { class: 'unit', text: unit }) : null),
-      note ? h('div', { class: 'note', text: note }) : null));
+  return h('div', { class: 'stat', title: defKey ? def(defKey) : undefined },
+    h('div', { class: 'head' }, h('span', { text: label || DEFS[defKey][0] }), icon(iconName)),
+    h('div', { class: `value ${cls || ''}` }, value, unit ? h('span', { class: 'unit', text: unit }) : null),
+    note ? h('div', { class: 'note', text: note }) : null);
 }
 function empty(iconName, text, ...extra) {
   return h('div', { class: 'empty' }, icon(iconName), h('div', { text }), ...extra);
@@ -628,7 +641,7 @@ async function skillPage(name, tabName = 'summary') {
     activity: () => [
       d.recent.length ? h('div', { class: 'card' }, h('h3', {}, 'Recent activity', h('span', { class: 'meta', text: `last ${d.recent.length} events` })),
         h('ul', { class: 'activity' }, d.recent.map((e) => {
-          const map = { invoked: ['zap', 'accent', 'started the skill'], completed: [e.success ? 'circle-check' : 'circle-x', e.success ? 'ok' : 'bad', e.success ? 'finished cleanly' : 'finished with tool errors'], error: ['triangle-alert', 'bad', 'tool call failed'], tool_call: ['check', '', 'tool call'] };
+          const map = { invoked: ['zap', '', 'started the skill'], completed: [e.success ? 'circle-check' : 'circle-x', e.success ? 'ok' : 'bad', e.success ? 'finished cleanly' : 'finished with tool errors'], error: ['triangle-alert', 'bad', 'tool call failed'], tool_call: ['check', '', 'tool call'] };
           const [ic, cls, what] = map[e.kind] || ['info', '', e.kind];
           return h('li', {}, h('span', { class: `av ${cls}` }, icon(ic)), h('span', { class: 'what' }, h('strong', { text: e.agent }), ` ${what}`, e.durationMs !== null ? h('span', { class: 'faint', text: ` · ${dur(e.durationMs)}` }) : ''), h('span', { class: 'when', title: new Date(e.time).toLocaleString(), text: ago(e.time) }));
         }))) : empty('activity', 'No telemetry for this skill yet.'),
@@ -666,7 +679,7 @@ async function skillPage(name, tabName = 'summary') {
     ],
   };
   render(
-    title(d.skill, { crumbs: [h('a', { href: '#/overview', text: 'Skills' }), icon('chevron-right', 'sm'), h('span', { text: d.skill })], badge: row ? statusBadge(row) : null }),
+    title(d.skill, { crumbs: [['Skills', '#/overview'], [d.skill]], badge: row ? statusBadge(row) : null }),
     ...d.warnings.map((w) => h('div', { class: 'notice warn' }, icon('triangle-alert'), h('span', { text: w }))),
     tabs,
     ...(sections[tabName] || sections.summary)(),
@@ -804,6 +817,7 @@ async function route() {
     else if (name === 'unsent') await unsentPage();
     else if (name === 'connections') await connectionsPage();
     else overviewPage();
+    document.getElementById('main').scrollTo(0, 0);
     window.scrollTo(0, 0);
   } catch (e) {
     render(h('div', { class: 'notice bad' }, icon('circle-x'), h('span', { text: `Could not load data: ${e.message}` })));

diff --git a/THIRD_PARTY_NOTICES.md b/THIRD_PARTY_NOTICES.md
@@ -4,7 +4,7 @@ snaglog has no runtime dependencies. It embeds the following third-party materia
 
 ## Lucide icons
 
-The dashboard (`cli/dashboard/index.html`) embeds the shape data of 32 icons from [Lucide](https://lucide.dev) (package `lucide-static` 1.72.0, https://github.com/lucide-icons/lucide): `layout-dashboard`, `git-compare-arrows`, `inbox`, `plug`, `search`, `sun`, `moon`, `check`, `x`, `clock`, `triangle-alert`, `activity`, `timer`, `coins`, `bug`, `flask-conical`, `git-commit-horizontal`, `bot`, `chevron-right`, `external-link`, `send`, `trash-2`, `info`, `zap`, `circle-check`, `circle-x`, `circle-dashed`, `rotate-ccw`, `file-text`, `save`, `radio`, `layers`.
+The dashboard (`cli/dashboard/index.html`) embeds the shape data of 33 icons from [Lucide](https://lucide.dev) (package `lucide-static` 1.72.0, https://github.com/lucide-icons/lucide): `layout-dashboard`, `git-compare-arrows`, `inbox`, `plug`, `search`, `sun`, `moon`, `check`, `x`, `clock`, `triangle-alert`, `activity`, `timer`, `coins`, `bug`, `flask-conical`, `git-commit-horizontal`, `bot`, `chevron-right`, `external-link`, `send`, `trash-2`, `info`, `zap`, `circle-check`, `circle-x`, `circle-dashed`, `rotate-ccw`, `file-text`, `save`, `radio`, `layers`, `circle-alert`.
 
 Only the drawing elements (`path`, `circle`, `rect`, `line`, `polyline`, `polygon`, `ellipse`) and their geometry attributes are kept. Their license:
 
